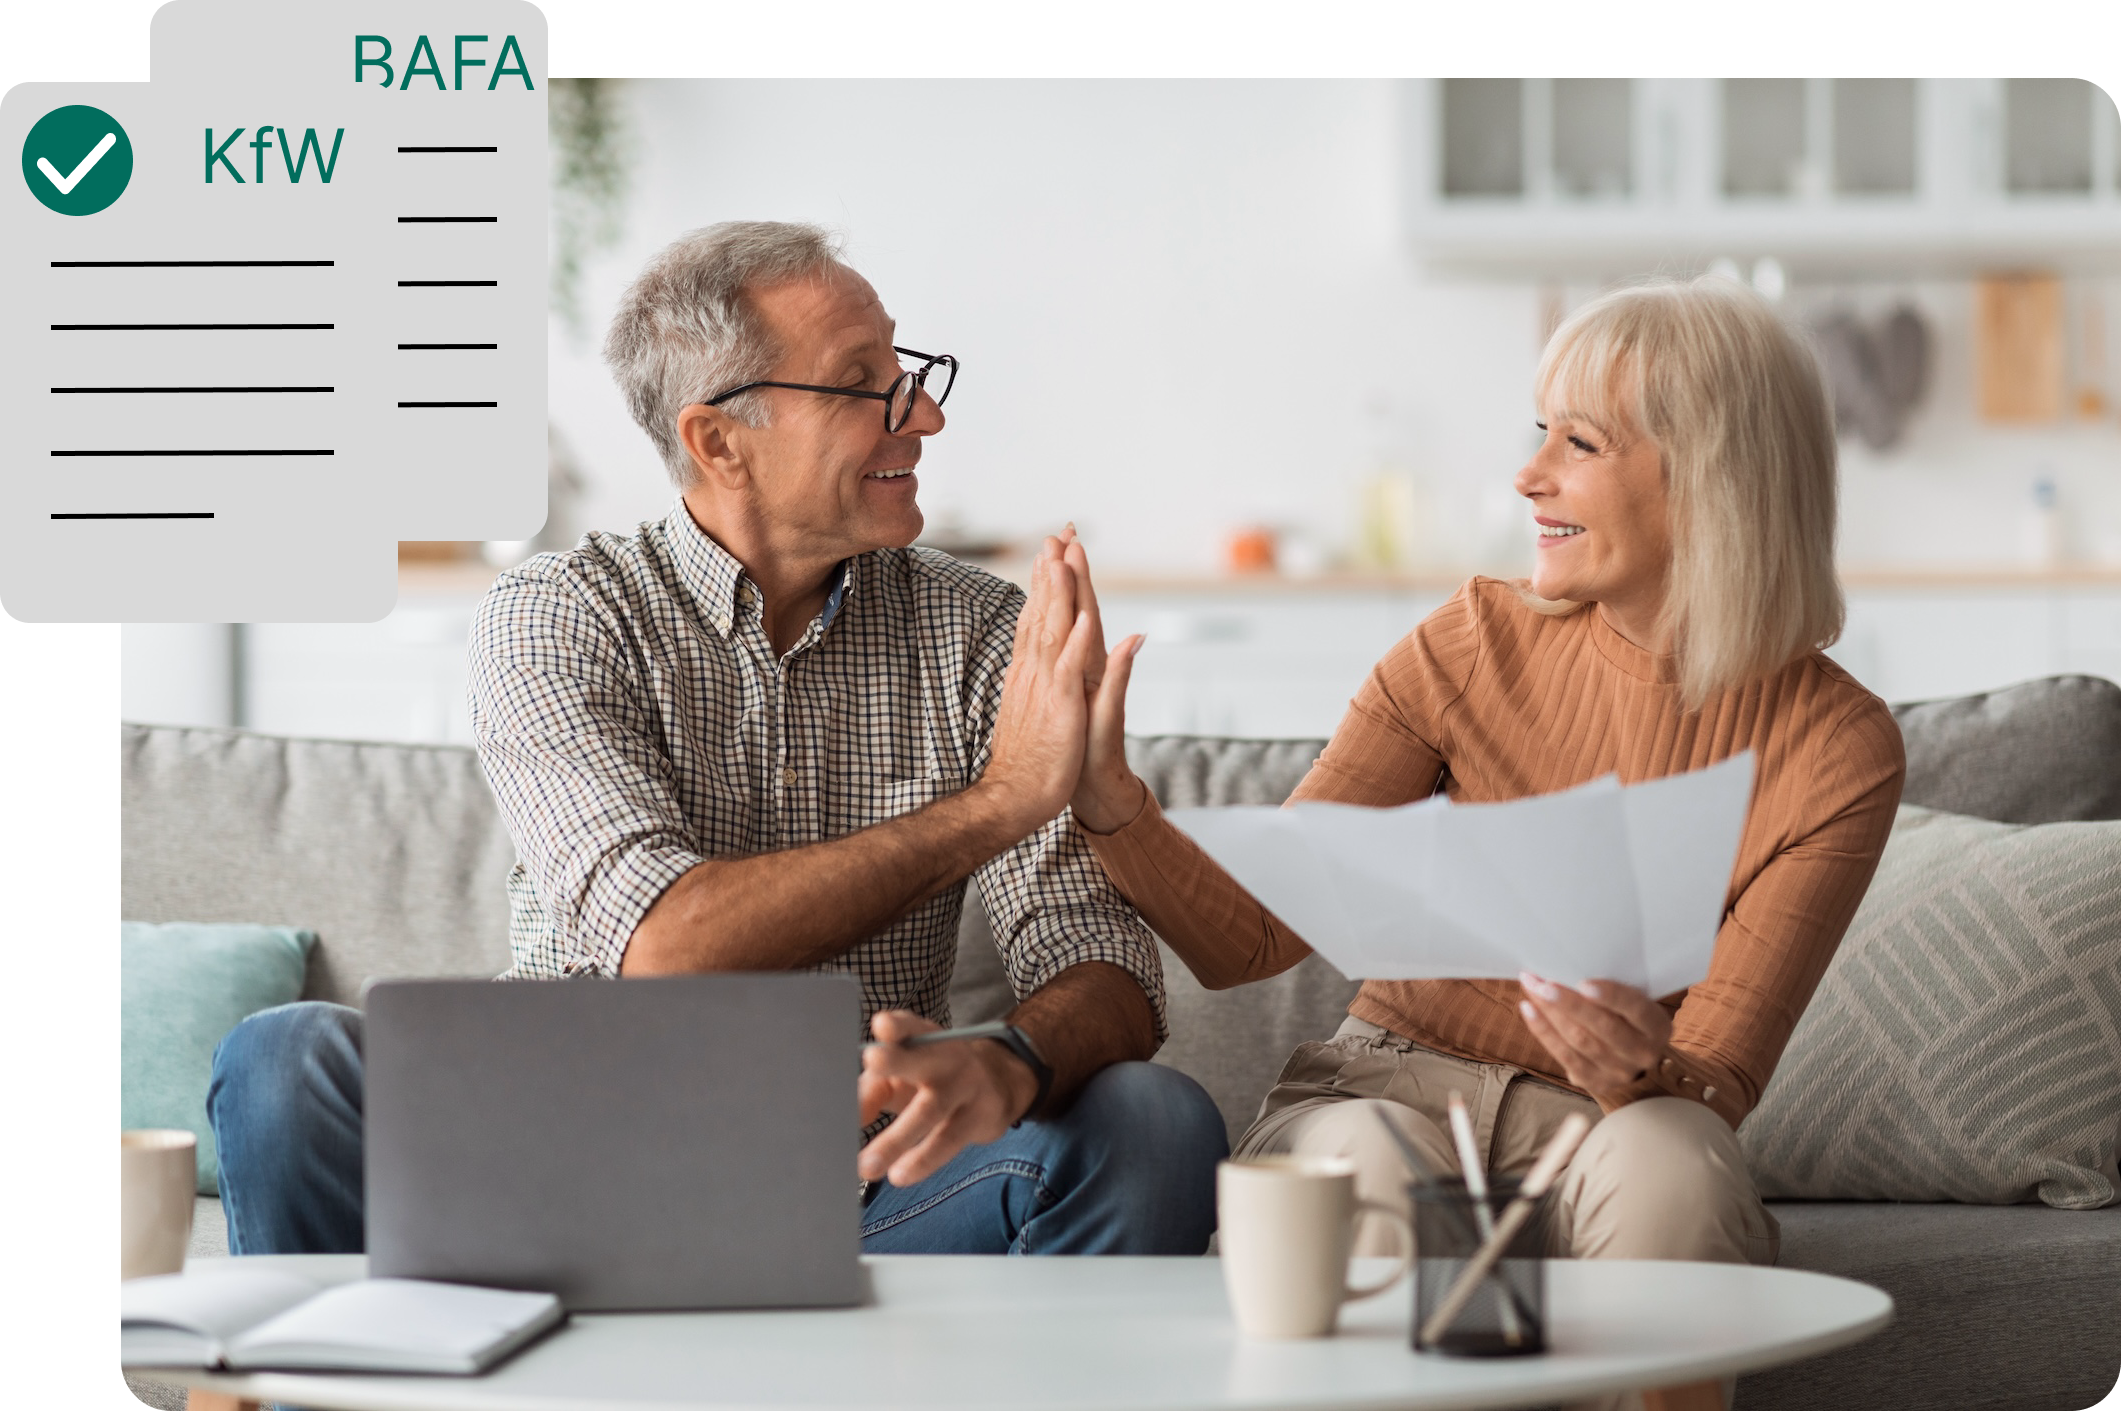
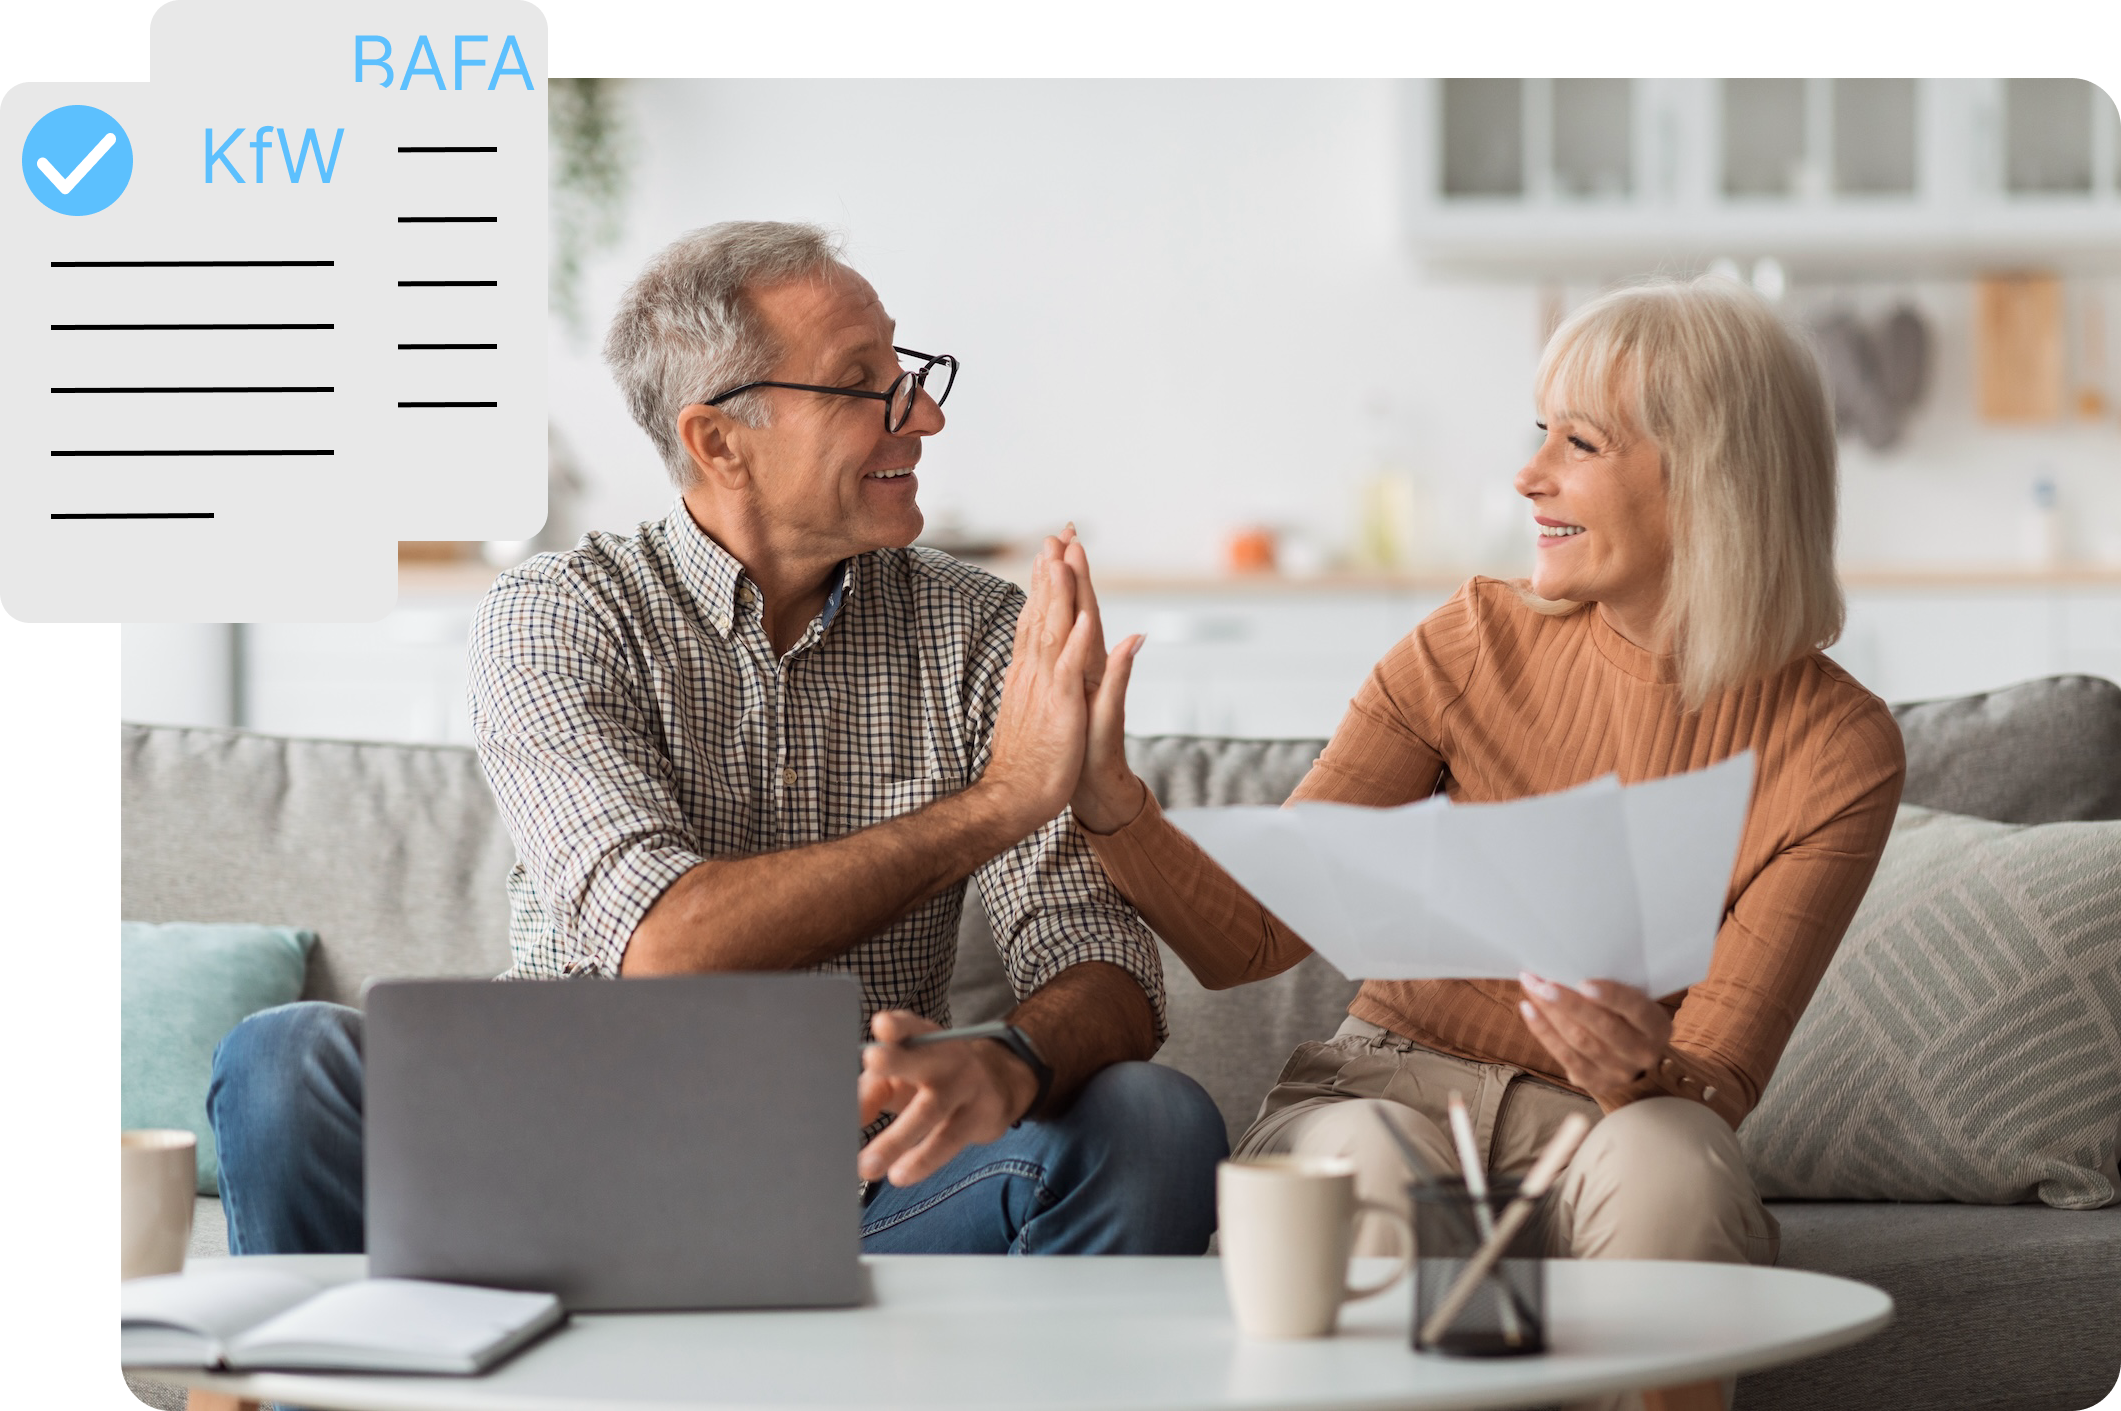
color edit

Changed region(s): [[0.0, 0.0624, 0.0622, 0.1559], [0.1556, 0.0312, 0.2489, 0.0624], [0.0934, 0.0936, 0.1556, 0.1247]]

diff --git a/src/app/foerderservice/page.tsx b/src/app/foerderservice/page.tsx
@@ -89,20 +89,20 @@ const Foerderservice = async () => {
           <div className="row flex-col lg:flex-row items-center lg:items-start justify-between">
             <div className="lg:w-1/2 mb-8 lg:mb-0 text-center lg:text-left">
               <h1 className="mb-4 text-h3 lg:text-h1" dangerouslySetInnerHTML={markdownify(banner.title)} />
-              <ul className="space-y-4 mb-8">
-                <li className="flex items-center justify-center lg:justify-start">
-                  <FontAwesomeIcon icon={faCheckCircle} className="h-6 w-6 mr-2" color="#ff6f61" />
-                  <span>Maximale Fördersumme sichern</span>
-                </li>
-                <li className="flex items-center justify-center lg:justify-start">
-                  <FontAwesomeIcon icon={faCheckCircle} className="h-6 w-6 mr-2" color="#ff6f61" />
-                  <span>Garantiert schnelle Durchführung</span>
-                </li>
-                <li className="flex items-center justify-center lg:justify-start">
-                  <FontAwesomeIcon icon={faCheckCircle} className="h-6 w-6 mr-2" color="#B8860B" />
-                  <span>Heizlastberechnung & BzA-Erstellung</span>
-                </li>
-              </ul>
+                <ul className="space-y-4 items-center justify-center mb-8">
+                  <li className="flex items-center lg:justify-start">
+                    <FontAwesomeIcon icon={faCheckCircle} className="h-6 w-6 mr-2 left-0" color="#87CEFA" />
+                    <span>Maximale Fördersumme sichern</span>
+                  </li>
+                  <li className="flex items-center lg:justify-start">
+                    <FontAwesomeIcon icon={faCheckCircle} className="h-6 w-6 mr-2 left-0" color="#87CEFA" />
+                    <span>Garantiert schnelle Durchführung</span>
+                  </li>
+                  <li className="flex items-center lg:justify-start">
+                    <FontAwesomeIcon icon={faCheckCircle} className="h-6 w-6 mr-2 left-0" color="#87CEFA" />
+                    <span>Heizlastberechnung & BzA-Erstellung</span>
+                  </li>
+                </ul>
               {banner.button && banner.button.enable && (
                 <>
                 <Link

diff --git a/src/layouts/partials/Advantages_therm.tsx b/src/layouts/partials/Advantages_therm.tsx
@@ -98,7 +98,7 @@ const Advantages_therm = ({ data }: { data: AdvantagesData }) => {
           justify-content: center;
           align-items: center;
           height: 100%; // This line makes the content use all available height
-          background-color: #dbdbdb; // Use a CSS variable for theme color
+          background-color: #AEC6CF; // Use a CSS variable for theme color
           border-radius: 30px;
         }
         .text-container {

diff --git a/src/content/sections/advantages_foerderservice.md b/src/content/sections/advantages_foerderservice.md
@@ -9,20 +9,20 @@ advantages:
     text: "Maximale Förderung sichern<br />"
     description: "Wir helfen Ihnen dabei den Ihnen zustehenden maximalen Förderzuschuss zu erhalten."
     icon: "coins"
-    color: "#016D5D"
+    color: "black"
   - id: "2"
     text: "Unkompliziert schnelle Abwicklung"
     description: "In nur 15 Minuten zur fertigen BzA und Heizlast."
     icon: "bolt"
-    color: "#016D5D"
+    color: "black"
   - id: "3"
     text: "Kein Finanzielles Risiko"
     description: "Volle Kostenerstattung, falls der Antrag nicht durchgehen sollte."
     icon: "smile"
-    color: "#016D5D"
+    color: "black"
   - id: "3"
     text: "Volle Transparenz"
     description: "Wir halten Sie stets auf dem Laufenden."
     icon: "comments"
-    color: "#016D5D"
+    color: "black"
 ---
